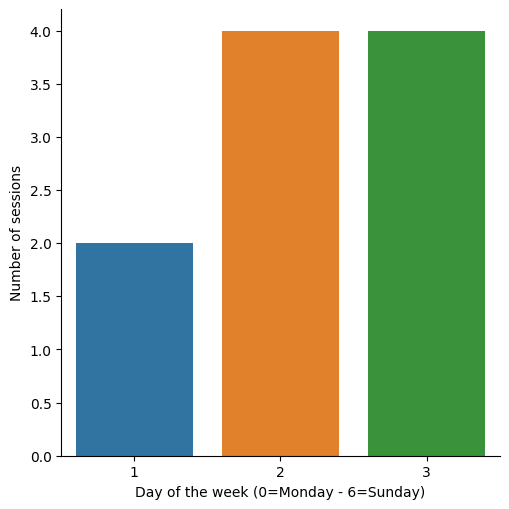
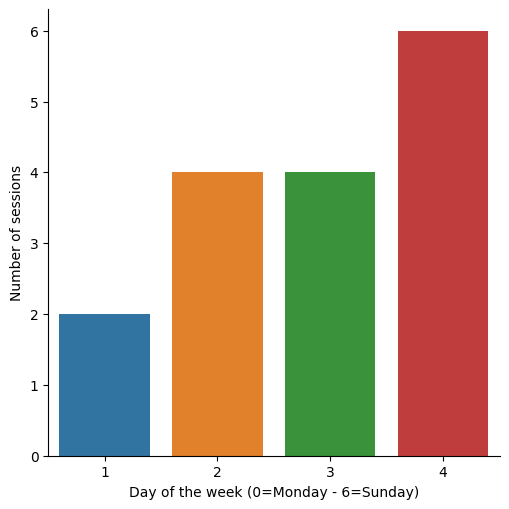
"Stats generated 2021-06-05"

diff --git a/all/2021/6/weekdays/4/index.html b/all/2021/6/weekdays/4/index.html
@@ -1,0 +1,29 @@
+<!DOCTYPE html>
+<html>
+  <head>
+    <meta charset="utf-8"/>
+    <title>Fridays June 2021</title>
+    <link rel="stylesheet" href="../../../../../styles.css"/>
+  </head>
+  <body>
+    <div id="container">
+      <nav>
+        <ul>
+          
+            <li><a href="../../">June 2021</a></li>
+            <li class="separator"></li>
+          
+          
+        </ul>
+      </nav>
+      <main>
+        <h1>Fridays June 2021</h1>
+        
+          <h2>Number of sessions per hour</h2>
+          <img src="sessions.png" alt="Number of sessions per hour"/>
+        
+        
+      </main>
+    </div>
+  </body>
+</html>

diff --git a/all/2021/6/days/4/index.html b/all/2021/6/days/4/index.html
@@ -1,0 +1,29 @@
+<!DOCTYPE html>
+<html>
+  <head>
+    <meta charset="utf-8"/>
+    <title>4 June 2021</title>
+    <link rel="stylesheet" href="../../../../../styles.css"/>
+  </head>
+  <body>
+    <div id="container">
+      <nav>
+        <ul>
+          
+            <li><a href="../../">June 2021</a></li>
+            <li class="separator"></li>
+          
+          
+        </ul>
+      </nav>
+      <main>
+        <h1>4 June 2021</h1>
+        
+          <h2>Number of sessions per hour</h2>
+          <img src="sessions.png" alt="Number of sessions per hour"/>
+        
+        
+      </main>
+    </div>
+  </body>
+</html>

diff --git a/all/2021/6/index.html b/all/2021/6/index.html
@@ -31,6 +31,10 @@
             
           
             
+              <li><a href="weekdays/4/">Friday</a></li>
+            
+          
+            
               <li><span>Day of Month</span></li>
             
           
@@ -44,6 +48,10 @@
           
             
               <li><a href="days/3/">3</a></li>
+            
+          
+            
+              <li><a href="days/4/">4</a></li>
             
           
         </ul>

diff --git a/all/2021/index.html b/all/2021/index.html
@@ -107,9 +107,9 @@
                   
                     <td>6.0</td>
                   
-                    <td>10.0</td>
+                    <td>16.0</td>
                   
-                    <td>91.72171995833332</td>
+                    <td>106.731893725</td>
                   
                 </tr>
               
